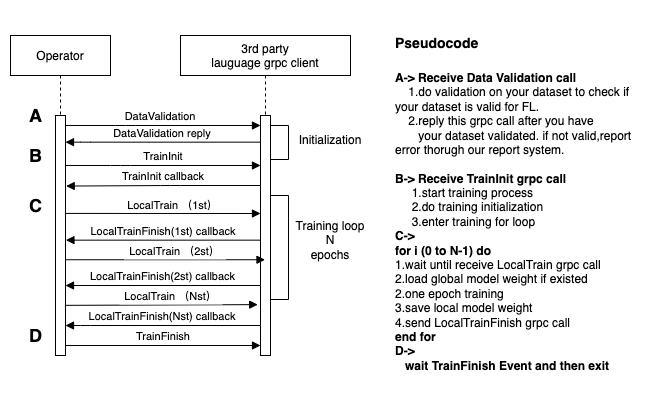
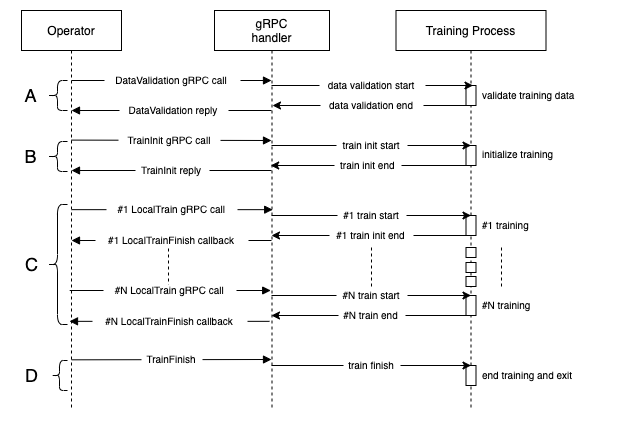
read me new version

diff --git a/README.md b/README.md
@@ -1,84 +1,195 @@
+## The Ailabs FL Framework
+
+* This is how Ailabs FL Framework works.
+
+<div align="left"><img src="./assets/3rd_without_python.png" style="width:100%"></img></div>
+
+## The components of Ailabs FL Framework
+
+Ailabs FL Framework consists of 3 components : `Operator`, `gRPC handler` and `Training Process` with
+five gRPC interfaces. `Operator` is embedded in Ailabs FL framework. And `gRPC handler` & `Training Process` will must be implemented by yourself.
+
+
+The `Operator` will send RPC to `gRPC handler` through the lifecycle of a FL training plan. When the `gRPC handler` receives a gRPC from the `Operator`, the `gRPC handler` will do some actions corresponding to the gRPC. The `gRPC handler` would be a single thread/process in order to immediately accept gRPCs (non-blocking) and `Training Process` is another thread/process to do time comsuming operations.
+
+
+## Lifecycle of Ailabs FL framework and the five gRPC interfaces
+
+We will introduce all five gRPC interfaces through the lifecycle of a FL training plan.
+
+* **DataValidate** (The phase A in the diagram)
+
+  This is the first phase of FL's lifecycle. In this phase, the DataValidate gRPC handler will be
+  called, and you will need to validate whether your data is validated or not. If data is valid, reply OK; otherwise, you will need to report errors by Logging interface.
+
+
+* **TrainInit** (The phase B in the diagram)
+
+  After the DataValidate phase, `Operator` will send the `TrainInit` rpc to `gRPC handler`. You can do any kind of initialization in this phase, such as data preprocessing, loading pretrained model weight, and other things you need before the FL training begin.
+
+* **LocalTrain** (The phase C in the diagram)
+
+  After the TrainInit phase, `Operator` will send the `LocalTrain` rpc to `gRPC handler`. In this phase, the LocalTrain handler will be called
+  multiple times, depending on the setting of the FL training plan. Every LocalTrain call means the begining of an epoch of FL training, and your `Training Process` will generate a local model weight and some validating metrics. Validating metrics should be sent back to `gRPC handler` as well as the `Operator`(throgh `LocalTrainFinish` client).
+
+* **TrainFinish** (The phase D in the diagram)
+
+  After all rounds of training have done, the `Opertor` will send `TrainFinish` rpc to `gRPC handler` to ask the `gRPC handler` to shutdown the `Training Process` and the `gRPC handler`.
+
+* **TrainInterrupt**
+
+  When `Operator` send this to `gRPC handler`, you should shutdown the `Training Process` and `gRPC handler`.
+
+## gRPC client implementation
+
+
+* **LocalTrainFinish**
+
+  ```proto
+
+    service EdgeOperator {
+      rpc LocalTrainFinish (LocalTrainResult) returns (Empty) {}
+    }
+
+    message LocalTrainResult {
+      enum Error {
+        SUCCESS = 0;
+        FAIL = 1;
+      }
+      Error error = 13;
+      int32 datasetSize = 14;
+      map<string, string> metadata = 15; // FUTURE:
+      map<string, double> metrics = 18;
+    }
+
+  ```
+  After `gRPC handler` receive `LocalTrain` rpc and you have done one round of local training, make a `LocalTrainFinish` callback to `Operator`. You will need to make a gRPC client follow the definitiaon above.
+
+
+* **LogMessage** (Logging interface in Ailabs FL framework)
+
+  ```proto
+    service EdgeOperator {
+      rpc LogMessage (Log) returns (Empty) {}
+    }
+
+    message Log {
+      string level = 1;
+      string message = 2;
+    }
+  ```
+  You will need to implement this log interface and send log to `Operator` with certain level below.
+
+* There are 3 types of logging level: `INFO`,`WARNING` and `ERROR`.
+  * `INFO`: No retriction. Choose this level if you just want to log.
+
+  * `WARNING`: Something wrong happend, but no fatal error curved. Send log with this log level.
+
+  * `ERROR`: Some fatal errors curved. Send log with this log level. And all systems will close.
+
+##  Things needs to be done to implement Ailabs FL Framework
+  1. Implement a gRPC server with the five gRPC ineterfaces(handles DataValidate,TrainInit,LocalTrain,TrainFinish,TrainInterrupt)
+  2. Implement a gRPC client with LocalTrainFinish.
+  3. Implement a gRPC client with LogMessage.
+
+--------------------------------------------------------------------------------------------------------------------
+
 # Hello FL
 
-Easiest way for ML people to learn FL framework. Because it is the simple integration of Ailabs FL framework and the well-known Mnist.
+Hello FL 是一個主要由python撰寫，並最容易讓ML 的人去學習Ailabs's FL framework的一個專案，Hello FL主要使用深度學頤的入門dataset以及model的範例MNIST，
+減少ML的工程師在學習Ailabs's FL framework上在算法上的額外時間的消耗，能將自身的model 整合至 Ailabs's FL framework。
 
+# 如何進行
+
+首先，第一步，我們會講解Hello FL當中每個組成部分是對應到Ailabs's FL framework的哪個部分，以讓您知道該怎麼對照Ailabs's FL framework來實作出您自己能符合
+Ailabs's FL framework的訓練專案。
+
+再對應的物件講解之後，我們會實際帶您能透過FL validator 來執行Hello FL一遍(一輪的training)，這樣，您就會了解整套系統是如何運作的
 ## Getting started
 
-Hello FL consists of three main parts: `operator` and `fl_edge.py` and `fl_train.py`.
-One who wants to fit their 3rd party model into Ailabs framework only needs to replace `fl_train.py` with their training script. But should implement some mechanism in their own `fl_train.py`.
+首先，在介紹Ailabs's FL framework之中，我們有提到Ailabs's FL framework主要由.
+  1. 3個元件 `Operator`, `gRPC handlder` 和 `Training Process`. 其中`Operator`為Ailabs提供的獨立container，`gRPC handlder` 和 `Training Process`預計會是一個container之中的不同2個 thread/process並由您提供。
+  2. 5個`gRPC handlder`給予`Operator`呼叫的5個gRPC interfaces `DataValidate`, `TrainInit`, `LocalTrain`, `TrainFinish` 以及 `TrainInterrupt`.
+  3. 2個`Operator` 給予 `gRPC handlder` 或 `Training Process` 回報的gRPC interfaces `LocalTrainFinish` 以及 `LogMessage`.
 
-## Role introduction
+在Hello FL之中，我們以Python實作以上的3個元件以及那(5+2)個 gRPC interfaces，分別如下
+  1. 3個元件，其中`Operator` 為Ailabs提供，而`gRPC handlder` 將會對應到後續提到的 `fl_edge.py`, 然後`Training Process`將會對應到`fl_train.py`。
+  2. 5個`gRPC handlder` 給予`Operator`呼叫的5個gRPC 將不會改變其名字，但生成的interface是python介面的。
+  3. 2個`Operator` 給予 `gRPC handlder`或 `Training Process` 回報的gRPC interfaces ，其中 `LocalTrainFinish`將不改變其名，而`LogMessage`雖因為其等同`Logging interface in Ailabs FL framework`，在這裡我們將其以python來實作並賦名為`FL Logging system of Hello FL`。
 
-* **Operator** : is the one communicating with our edge and the central aggregator.
-While it works, it will follow the `lifecycle of FL` to call `the four GRPC API` within fl_edge.py.
-The `lifecycle of FL` and `the four GRPC API` will be introduced later..
+接下來，我們就會開始以Hello FL的角度 對照 Ailabs's FL framework，並以登場時序來講解Hello FL的運作流程。
 
+#### 更詳細介紹
+在`Hello FL`之中，我們將框架裡的`gRPC handlder`實作成`fl_edge.py`而框架裡的`Training Process` 實作成 `fl_train.py`，之後將不再提醒這個很重要的對應關係。`fl_edge.py`以及`fl_train.py`這2個元件被我們包在一個container，我們之後會之稱為 `Application` 或 `App`(在圖中已有冠名)。
+在這裡，我們須理解`fl_edge.py`會是一個non-blocking的thread/process去接受或發送gRPC，而我們的`fl_train.py`則是另一個thread/process專注在處理data的preprocess或者是training等較繁雜的工作。
 
-* **fl_edge.py** : is the example of grpc handler for Ailabs FL framework. It handles all the grpc calls while doing FL training. This script is provided by Ailabs if 3rd party model training code is python based. We provide this script to help handle the FL GRPC call.
-
-* **fl_train.py** : is now mainly consisting of `Mnist` training code. Users with 3rd party training code will replace fl_train.py with their own training code(should also be renamed fl_train.py). And implement the machism needed to be implemented in current `Mnist`  of fl_train.py example to fit Ailabs FL framework. We will introduce this later.
-
-
-## The five GRPC API
-
-In the last section, we have introduced the 3 parts of Ailabs FL framework : `Operator`, `fl_edge.py` and `fl_train.py`. Grpc implementations have been done in `Operator` and `fl_edge.py` by Ailabs. So one who wants to integrate their model with Ailabs FL framework don't need to implement `The four GRPC API` by theirself but should know how it works. Then they will know when to implement the mechanism should be implemented in `fl_train.py`.
-
-* **DataValidation** : Before a FL really gets started, we will need to do data's validation. When receiving this grpc call, fl_edge.py will help to launch a process which will call the function in the script file you have provided. Then after the validation process has been done. Return this grpc call with OK. If there is something wrong, one should use our log system to report errors.
-
-
-* **TrainInit** : After data's validation has been done, FL gets started, `Operator` will call the TrainInit（GRPC call) in `fl_edge.py`, which directly means to make the training initialized. Users need to initialize their training after this call has been triggered. `fl_edge.py` helps to handle this event, and will call the `init` in `fl_train.py` （the script which will be replaced with 3rd's training script if users want their 3rd party training to be in FL framework). So users need to implement `init` in their own `fl_train.py` like example `Mnist` and do initiation in this `init` function. After users have done the initialization in `init` function, users should do trainInitDoneEvent.set() to inform outside that  `fl_edge.py` initialization have done and `fl_edge.py` will help to reply `Operator` this and we will go to next section : LocalTrain.
-
-* **LocalTrain** : After users send trainInitDoneEvent.set(), `Operator` will later call LocalTrain（GRPC call)  in `fl_edge.py`. LocalTrain means to trigger one epoch of training. `fl_edge.py` have help to handle this GPPC and will do `trainStartedEvent.set()` event to `fl_train.py`, and users need to handle this event in `fl_train.py` to launch a new epoch of training.And after the new epoch of training have done, do `trainFinishedEvent.set()` to inform `fl_edge.py` that this new epoch of training have done.One will do `trainStartedEvent.wait()` in the beginning of their training loop and reply with  `trainStartedEvent.clear()`.
-
-
-* **TrainInterrupt** : This GPPC has not been implemented  currently.
-
-* **TrainFinish** : This GRPC will be called after FL training has finished. And `fl_edge.py` has helped to close the training process.
-
-
-## Lifecycle of Ailabs FL framework
 
 <div align="center"><img src="./assets/msc_1.png" style="width:75%"></img></div>
 
-Here we begin with DataValidation phase,
+### 訓練流程
 
-```plaintext
-  DataValidation: This is the first phase of FL's lifecycle, we need to check whether our training
-  dataset is valid or not in this phase. In this phase, a validation function will be called, and
-  you can do validation in this function. After you have validated your dataset, if it is correct
-  return grpc call with OK. If something is wrong, report errors through our log system.
-```
+####第一步(階段A)：
+`Operator` 將會發送一個gRPC請求 `DataValidate` 到 `fl_edge.py`，`fl_edge.py`此時會進行一個blocking的資料驗證(data validation)流程，我們目前給予的處理時程為1個小時，`fl_edge.py`處理完資料驗證後，不論資料是合法或者非法，`fl_edge.py`將會回傳OK(代表驗證已完成)給`Operator`。若驗證結果正確，將不再有近一步的動作，然而，若是資料有誤，我們會將錯誤訊息透過 `FL Logging system of Hello FL`來傳給`Operator`。
 
-After DataValidation phase done,
 
-```plaintext
-  TrainInit: In the beginning of Ailabs FL training, we will enter a phase called TrainInit.
-  This is also the GRPC call name from Operator. We will do initialization at this phase
-  like preprocessing and load pretrained model weight. Also any other things needed to be
-  done before training can be done at this phase.
+####第二步(階段B)：
+`Operator` 在收到驗證完成的回報後，會發送一個gRPC請求`TrainInit`到`fl_edge.py`，`fl_edge.py`此時會進行一個blocking的訓練初始化流程(training initialization)流程，我們目前給予的處理時程為1個小時，這時候我們處理了訓練前的preprocess以及load pretrained model等操作，並啟動3元件中的`fl_train.py`(在python裡，我們以獨立的process形式將其啟動)，使`fl_train.py`在其他初始化完成後進入一個training 的for loop中，並使用python event控制(註A)其處在等待更近一步指令的狀態。`fl_edge.py`處理完訓練的初始化後，將會回傳OK(代表初始化已完成)`Operator`。 若初始化過程順利，將不再有近一步的動作。 然而，若是初始化過程有誤，我們會將錯誤訊息透過 `FL Logging system of Hello FL`來傳給`Operator`。
 
-  In this phase, our training communicates outside with 1 event : trainInitDoneEvent.
-```
-
-```plaintext
-  LocalTrain: In the second phase of Ailabs FL training, we enter a phase called LocalTrain.
-  This is also the GRPC call name from Operator. This phase will loop 250-1000 times or
-  even more. Every LocalTrain phase means an epoch of FL training. How many LocalTrain
-  phases we run through depends on how many epochs(rounds) a FL project set.
-
-  In this phase, our training communicates outside with the python event system, there are 2 events in this phase: trainStartedEvent and trainFinishedEvent.
-```
 
 <div align="center"><img src="./assets/msc_2.png" style="width:75%"></img></div>
 
-## FL Logging system in Ailabs FL framework
+####第三步(階段C)：
+`Operator` 在收到訓練初始化完成的回報後，會發送一個gRPC請求`LocalTrain`到`fl_edge.py`，`fl_edge.py`會使用python event(註B)，傳送開始訓練的指令到`fl_train.py`。 此時`fl_train.py`會開始進行所謂的local training 並在結束的時候產出一個local training model weight(在hello FL中為weight.ckpt) 以及一組驗證資料 (validating metrics)，這組驗證資料將透過`Application`中的gRPC client(註C)傳送一個gRPC請求`LocalTrainFinish`給`Operator`。 `Operator`在收到`LocalTrainFinish` 會將local training model weight 以及 validating metrics進行處理，處理完後會再次發送`LocalTrain`的請求給`fl_edge.py`，此時`fl_edge.py`(註D)會開始新一輪的local training，如此反覆，直到達到指定的訓練輪數（註E)。
+
+####第四步(階段D)：
+`Operator` 在指定訓練輪數達到訓練計畫的數量後，將會發送 `TrainFinish`到`fl_edge.py`，此時 `fl_edge.py`將會把`fl_train.py` process 關閉，並將自己關閉。
+
+
+註A: `fl_train.py` process 在完成自己的initialization，會做 `trainInitDoneEvent.set()` 來告知 `fl_edge.py` training process(即`fl_train.py`自己)完成初始化了，並開始進入ML所謂training for loop中的第一個loop作等待 (其等待的event為trainStartedEvent)
+
+註B: `fl_edge.py` 會做 `trainStartedEvent.set()` 來告知 `fl_train.py` process 可以開始做training了，此時`fl_train.py`會做`trainStartedEvent.clear()` 告知 `fl_edge.py` 自己已開始訓練，並在結束的時候做 `trainFinishedEvent.set()` 來告知`fl_edge.py` 已完成訓練，並到training loop 下一輪中等待`fl_edge.py` 對其新一輪訓練的請求。
+
+註C:hello FL目前是將gRPC client以prcross的形式實作在`fl_edge.py`之中。
+
+註D:實際執行的次數取決於創立的訓練計畫中指定的訓練輪數。
+
+
+## FL Logging system of Hello FL
+
+我們使用Python的queue與單獨的process拉實作 gRPC client interface `LogMessage`
+
+```python
+def logEventLoop(logQueue):
+    while True:
+        obj = logQueue.get()
+        channel = grpc.insecure_channel(OPERATOR_URI)
+        stub = service_pb2_grpc.EdgeOperatorStub(channel)
+        level, message = UnPackageLogMsg(obj)
+        logging.info(f"Send log level: {level} message: {message}")
+        message = service_pb2.Log(
+            level = level,
+            message = message
+        )
+        try:
+            response = stub.LogMessage(message)
+            logging.info(f"Log sending succeeds, response: {response}")
+        except grpc.RpcError as rpc_error:
+            logging.error(f"grpc error: {rpc_error}")
+        except Exception as err:
+            logging.error(f"got error: {err}")
+        if level == LogLevel.ERROR:
+            global loop
+            loop = False
+            return
+```
+
+並將格式進行打包，完成framework中對log message的定義
 
 ```python
 class LogLevel(Enum):
     INFO = 1
     WARNING = 2
     ERROR = 3
-
 
 def PackageLogMsg(loglevel: LogLevel, message: string)-> object:
     return {"level":loglevel.name, "message":message}
@@ -87,39 +198,11 @@ def UnPackageLogMsg(log :object):
     return log["level"] , log["message"]
 ```
 
-Totally we have 3 types of logging: `INFO`,`WARNING` and `ERROR`.
+在 Hello FL 之中
+
+There are 3 types of logging level: `INFO`,`WARNING` and `ERROR`.
 Users should pack their message with the provided `PackageLogMsg` and put it to the provided queue. Like
 
 ```python
 logQueue.put(PackageLogMsg(LogLevel.INFO,'Training :trained finished. Start saving model weight'))
 ```
-
-## The most important things while replacing fl_train.py ?
-
-* Must be done in fl_train.py.
-
-  * Do `trainInitDoneEvent.set()` after initialization has been done. To inform that your training initialization has done （before entering training loop）
-
-  * Do `trainStartedEvent.wait()` and `trainStartedEvent.clear()` in the beginning of the training loop. To block the new epoch of training until it received the trainStartedEvent event.
-
-  * Do `trainFinishedEvent.set()` at the end of the training loop to inform that your one epoch of training has done.
-
-* Good to have
-  * Using the `FL Logging system` to log some customized messages while in FL training will help to realize more when bugs or training problems have occurred.
-
-
-## 3rd that not using Python base, how to do it?
-
-* First, see another msc of this situation. We will not have fl_edge.py. Instead, all GRPC function calls that were handled by fl_edge.py will now be handled by 3rd itself.
-
-<div align="left"><img src="./assets/3rd_without_python.png" style="width:100%"></img></div>
-
-* Must to be know to replace fl_edge.py
-    * Should at least have a thread （process）[called GRPC handler] handles 3 GRPC function calls.
-    * GRPC handlers should be independent, not be in the same thread/process of training process.
-    * GRPC handlers can launch a training thread/process after receiving a TrainInit GRPC call.
-    * Training thread/process will do N epochs training.
-    * Training thread/process will wait（blocking）until the GRPC at the beginning of every epoch, wait until the GRPC handler receives LocalTrain GRPC call, and start this epoch of training then finish.
-    * At the end of every epoch, the Training thread/process will call LocallTrainFinish via the GRPC handler.
-    * GRPC handlers received TrainFinsh GRPC calls will end all threads/processes.
-    * GRPC handlers should also implement a logs interface and let Training thread/process send logs.
